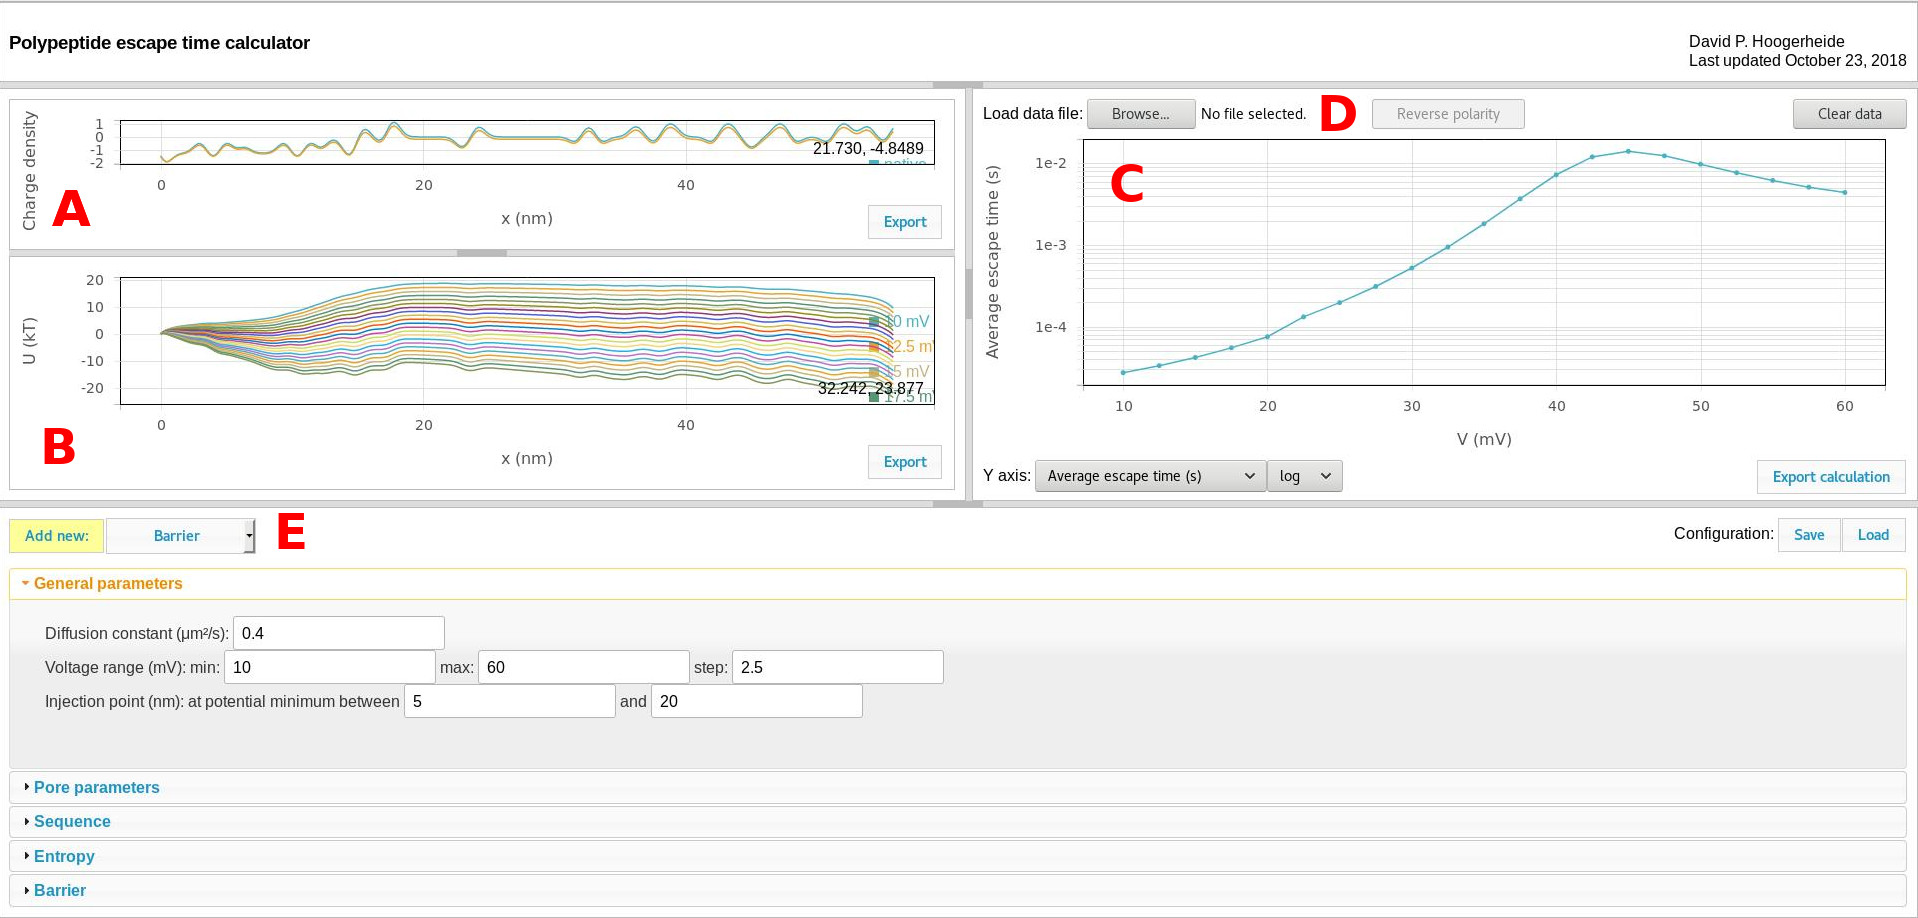
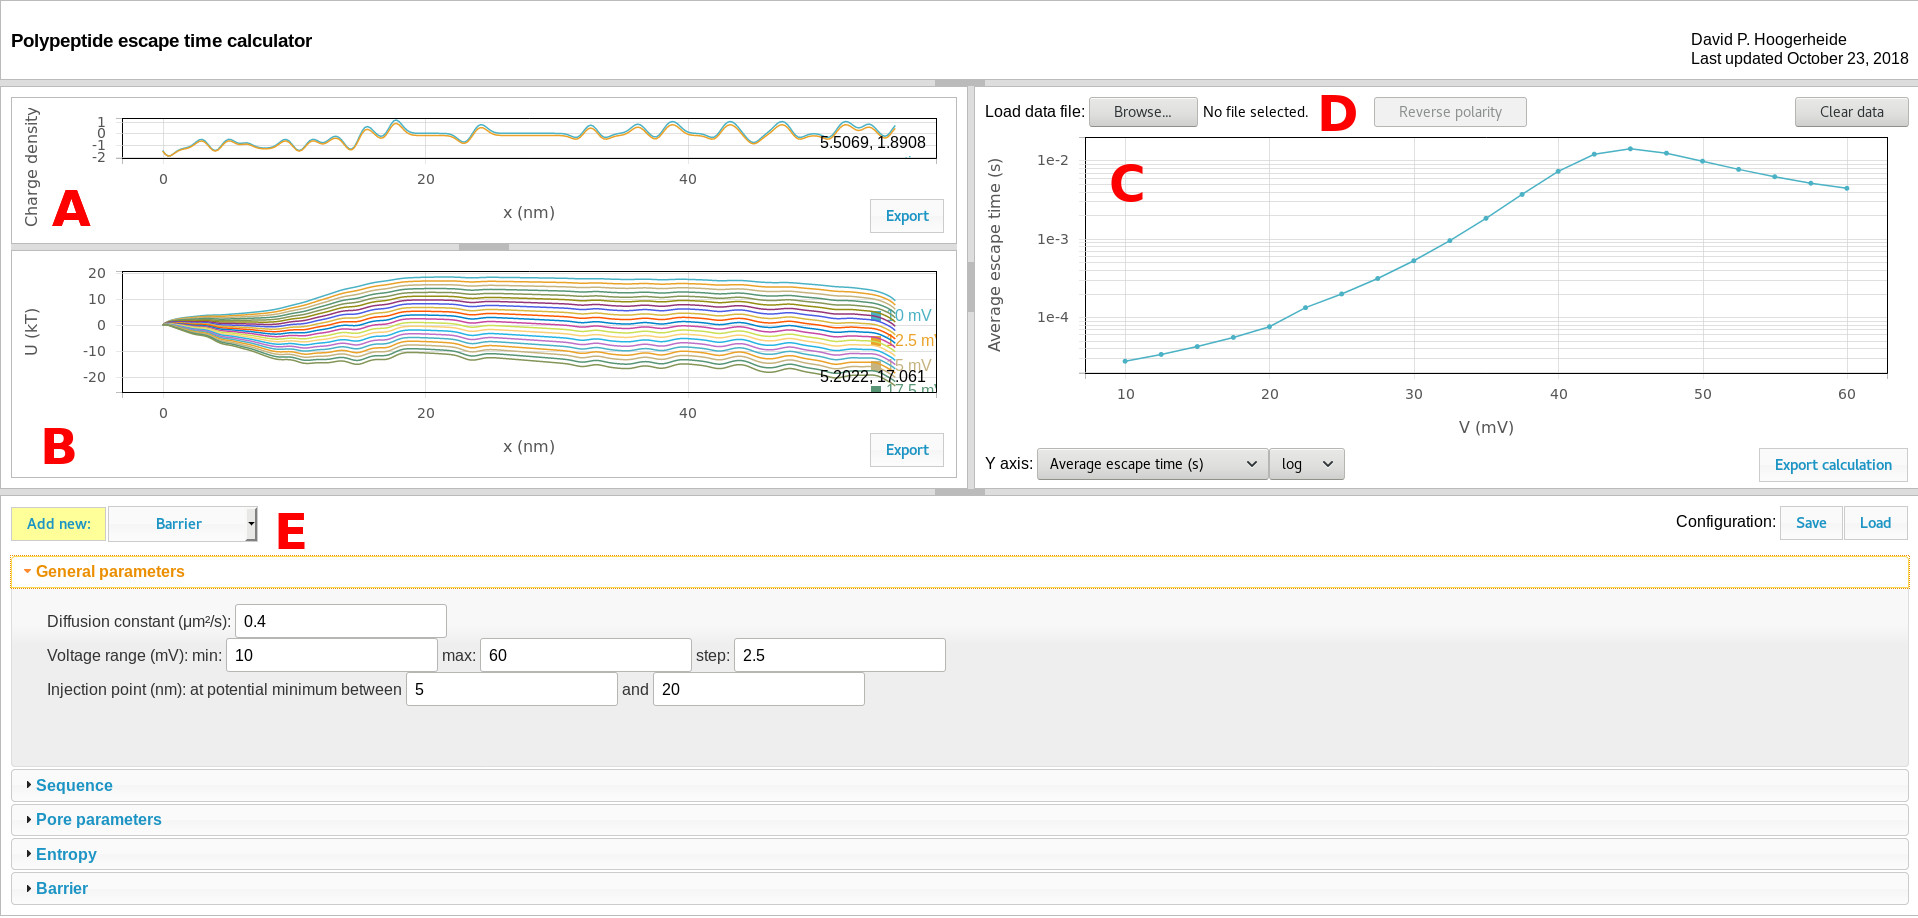
Updated docs to reflect new organization and sequence panel changes.

Changed region(s): [[0.0, 0.0, 1.0, 0.793], [0.0, 0.8235, 1.0, 1.0], [0.769, 0.4575, 0.7998, 0.488]]

diff --git a/README.md b/README.md
@@ -67,8 +67,11 @@ The calculation and quasipotential controls are divided into panels. The descrip
 
 ![sequence](./docs/sequence.jpg)
 + The polypeptide sequence determines both the length of the diffusion region (0.4 nm per amino acid) and the charge density profile in the [charge density graphic](#a-charge-density-graphic). Spaces are ignored. Lysine (K), arginine (R), and histidine (H) residues are assigned +1 charges, while aspartic (D) and glutamic (E) acid residues are assigned -1. An Alexa 488 tag (X) is assigned a -2 charge.
-+ The polypeptide always translocates from left to right, so the "direction" control sets the order of the amino acids.
-+ The reverse button reverses the amino acid order.
++ The polypeptide always translocates from left to right, so the "reverse" button reverses the amino acid order.
++ The "direction" control determines which end of the molecule is the N (which carries an extra +1 charge) and which is the C (which carries an extra -1 charge) terminus.
++ The length per amino acid determines the position scale.
++ The Kuhn length is only used if the molecule is tethered (see [entropy](#entropy))
+
 
 #### Pore parameters
 ![pore_parameters](./docs/pore_parameters.jpg)
@@ -78,7 +81,7 @@ The calculation and quasipotential controls are divided into panels. The descrip
 #### Entropy
 ![entropy](./docs/entropy.jpg)
 The entropy controls extend the calculator to treat tethered polyelectrolytes (*i.e.* when translocation is known to be impossible).
-+ The entropy function is rather different in the tethered case, and turning on the tethering option applies the appropriate entropy function.
++ The entropy function is rather different in the tethered case, and turning on the tethering option applies the appropriate entropy function. Note that this function uses the "Kuhn length" parameter in the [sequence](#sequence) panel.
 + The tether length is a sensitive parameter that sets the maximum extension of the tethered polyelectrolyte.
 
 #### Custom quasipotential elements
